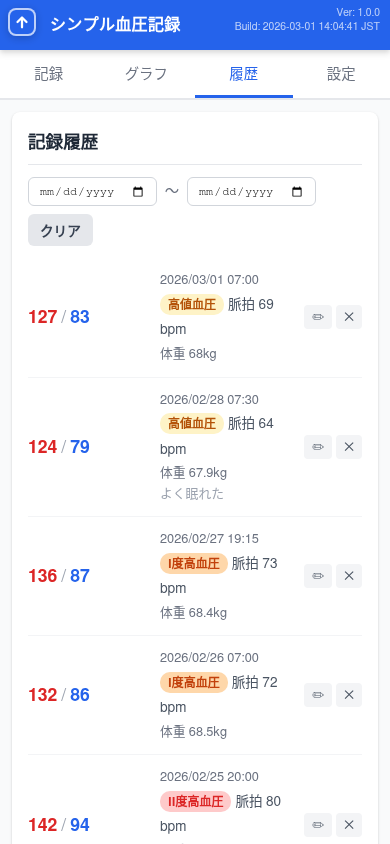
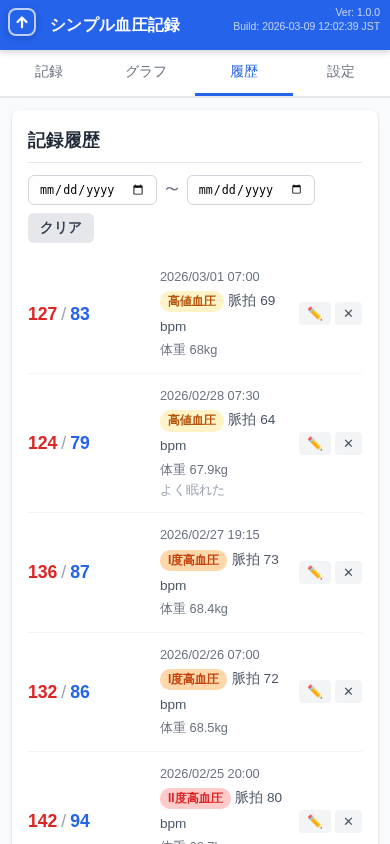
スクリーンショットをlocal_app/docs-images/にも出力して絵文字文字化けを修正
マニュアル・プロモーション・ショーケースのHTMLが参照する
local_app/docs-images/のスクリーンショットも同時に更新されるようにした。

diff --git a/tools/take_screenshots.js b/tools/take_screenshots.js
@@ -1,9 +1,19 @@
 const { chromium } = require('playwright');
 const path = require('path');
 
+const fs = require('fs');
+
 const APP_URL = `http://${process.env.E2E_APP_IP || '172.31.0.10'}`;
-const OUTPUT_DIR = '/app/docs/images';
+const OUTPUT_DIRS = ['/app/docs/images', '/app/local_app/docs-images'];
 const VIEWPORT = { width: 390, height: 844 };
+
+async function takeScreenshot(page, filename) {
+    for (const dir of OUTPUT_DIRS) {
+        if (fs.existsSync(dir)) {
+            await page.screenshot({ path: path.join(dir, filename) });
+        }
+    }
+}
 
 async function sleep(ms) {
     return new Promise(resolve => setTimeout(resolve, ms));
@@ -88,7 +98,8 @@ async function main() {
     await sleep(500);
     await page.evaluate(() => window.scrollTo(0, 0));
     await sleep(300);
-    await page.screenshot({ path: path.join(OUTPUT_DIR, '01_record_form.png') });
+    await takeScreenshot(page, '01_record_form.png');
+
 
     // 02: Recent records
     console.log('Taking 02_record_recent.png...');
@@ -99,7 +110,8 @@ async function main() {
         await page.evaluate(() => window.scrollTo(0, 800));
     }
     await sleep(300);
-    await page.screenshot({ path: path.join(OUTPUT_DIR, '02_record_recent.png') });
+    await takeScreenshot(page, '02_record_recent.png');
+
 
     // 03: Chart continuous
     console.log('Taking 03_chart_continuous.png...');
@@ -117,7 +129,8 @@ async function main() {
     await sleep(1500);
     await page.evaluate(() => window.scrollTo(0, 0));
     await sleep(300);
-    await page.screenshot({ path: path.join(OUTPUT_DIR, '03_chart_continuous.png') });
+    await takeScreenshot(page, '03_chart_continuous.png');
+
 
     // 04: Chart day/night
     console.log('Taking 04_chart_daynight.png...');
@@ -132,7 +145,8 @@ async function main() {
     await sleep(1500);
     await page.evaluate(() => window.scrollTo(0, 0));
     await sleep(300);
-    await page.screenshot({ path: path.join(OUTPUT_DIR, '04_chart_daynight.png') });
+    await takeScreenshot(page, '04_chart_daynight.png');
+
 
     // 05: Chart stats
     console.log('Taking 05_chart_stats.png...');
@@ -143,7 +157,8 @@ async function main() {
         await page.evaluate(() => window.scrollTo(0, 600));
     }
     await sleep(300);
-    await page.screenshot({ path: path.join(OUTPUT_DIR, '05_chart_stats.png') });
+    await takeScreenshot(page, '05_chart_stats.png');
+
 
     // 06: History tab
     console.log('Taking 06_history_tab.png...');
@@ -151,7 +166,8 @@ async function main() {
     await sleep(1000);
     await page.evaluate(() => window.scrollTo(0, 0));
     await sleep(300);
-    await page.screenshot({ path: path.join(OUTPUT_DIR, '06_history_tab.png') });
+    await takeScreenshot(page, '06_history_tab.png');
+
 
     // 07: Settings data
     console.log('Taking 07_settings_data.png...');
@@ -159,7 +175,8 @@ async function main() {
     await sleep(500);
     await page.evaluate(() => window.scrollTo(0, 0));
     await sleep(300);
-    await page.screenshot({ path: path.join(OUTPUT_DIR, '07_settings_data.png') });
+    await takeScreenshot(page, '07_settings_data.png');
+
 
     // 08: Settings profile
     console.log('Taking 08_settings_profile.png...');
@@ -174,7 +191,8 @@ async function main() {
         await page.evaluate(el => el && el.scrollIntoView({ block: 'start' }), profileSection);
     }
     await sleep(300);
-    await page.screenshot({ path: path.join(OUTPUT_DIR, '08_settings_profile.png') });
+    await takeScreenshot(page, '08_settings_profile.png');
+
 
     // 09: Settings chart
     console.log('Taking 09_settings_chart.png...');
@@ -189,7 +207,8 @@ async function main() {
         await page.evaluate(el => el && el.scrollIntoView({ block: 'start' }), chartSettings);
     }
     await sleep(300);
-    await page.screenshot({ path: path.join(OUTPUT_DIR, '09_settings_chart.png') });
+    await takeScreenshot(page, '09_settings_chart.png');
+
 
     // 10: Settings AI
     console.log('Taking 10_settings_ai.png...');
@@ -204,7 +223,8 @@ async function main() {
         await page.evaluate(el => el && el.scrollIntoView({ block: 'start' }), aiSection);
     }
     await sleep(300);
-    await page.screenshot({ path: path.join(OUTPUT_DIR, '10_settings_ai.png') });
+    await takeScreenshot(page, '10_settings_ai.png');
+
 
     // 11: Edit dialog
     console.log('Taking 11_edit_dialog.png...');
@@ -231,7 +251,8 @@ async function main() {
         }
     });
     await sleep(1000);
-    await page.screenshot({ path: path.join(OUTPUT_DIR, '11_edit_dialog.png') });
+    await takeScreenshot(page, '11_edit_dialog.png');
+
     // Close dialog via JS
     await page.evaluate(() => {
         // Try clicking cancel button
@@ -265,7 +286,8 @@ async function main() {
         await page.evaluate(() => window.scrollTo(0, document.body.scrollHeight));
     }
     await sleep(300);
-    await page.screenshot({ path: path.join(OUTPUT_DIR, '12_settings_appinfo.png') });
+    await takeScreenshot(page, '12_settings_appinfo.png');
+
 
     console.log('All screenshots taken successfully!');
     await browser.close();
